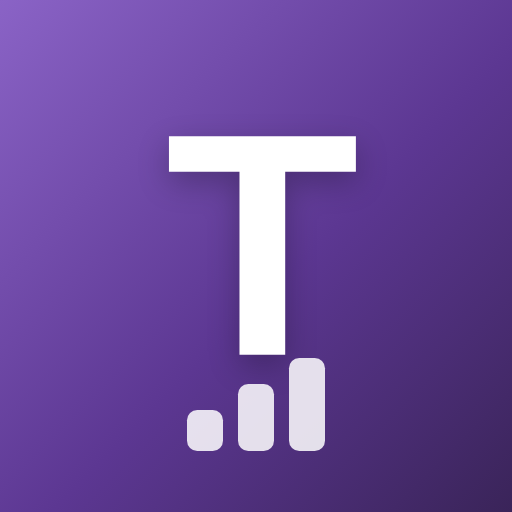
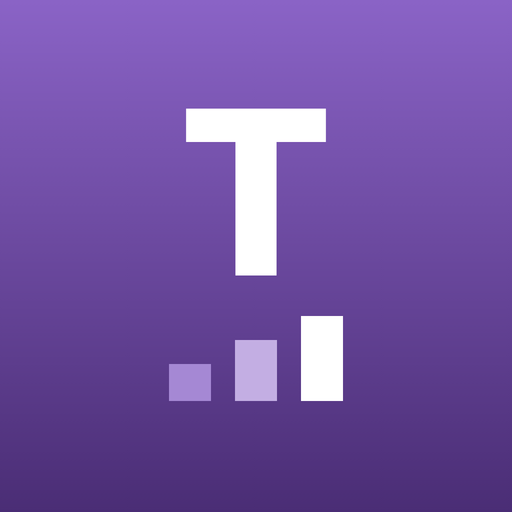
Ship the Tally Insights mark: white T over square bars on the family tile
The Insights logo is now the bar-graph mark Josh picked: a white Geist
T with three square-cornered ascending bars underneath, on the same
vertical purple fade (#8a63c6 to #4a2d75) the consumer Tally app icon
shipped with, so the two products read as siblings on a phone screen.

Replaces the favicon, the browser tab icon, the apple touch icon, and
both PWA manifest icons, and the header now renders the real icon
instead of a CSS approximation.

Claude-Session: https://claude.ai/code/session_014xmjjDVW9g9B5k4dB7hT4R

diff --git a/src/components/AppShell.tsx b/src/components/AppShell.tsx
@@ -27,9 +27,14 @@ export function AppShell({
         <div className="mx-auto flex w-full items-center justify-between px-4 py-3 md:px-6">
           <div className="flex items-center gap-8">
             <Link href="/" className="flex items-center gap-2">
-              <span aria-hidden="true" className="flex h-8 w-8 items-center justify-center rounded-lg bg-gradient-to-br from-brand-500 to-brand-800 text-sm font-bold text-white shadow-sm">
-                T
-              </span>
+              {/* The Insights mark: white T over ascending bars, same tile
+                  family as the consumer Tally app icon */}
+              <img
+                src="/icon.png"
+                alt=""
+                aria-hidden="true"
+                className="h-8 w-8 rounded-lg shadow-sm"
+              />
               <span className="text-lg font-semibold tracking-tight text-brand-900">
                 Tally <span className="font-normal text-brand-600">Insights</span>
               </span>
